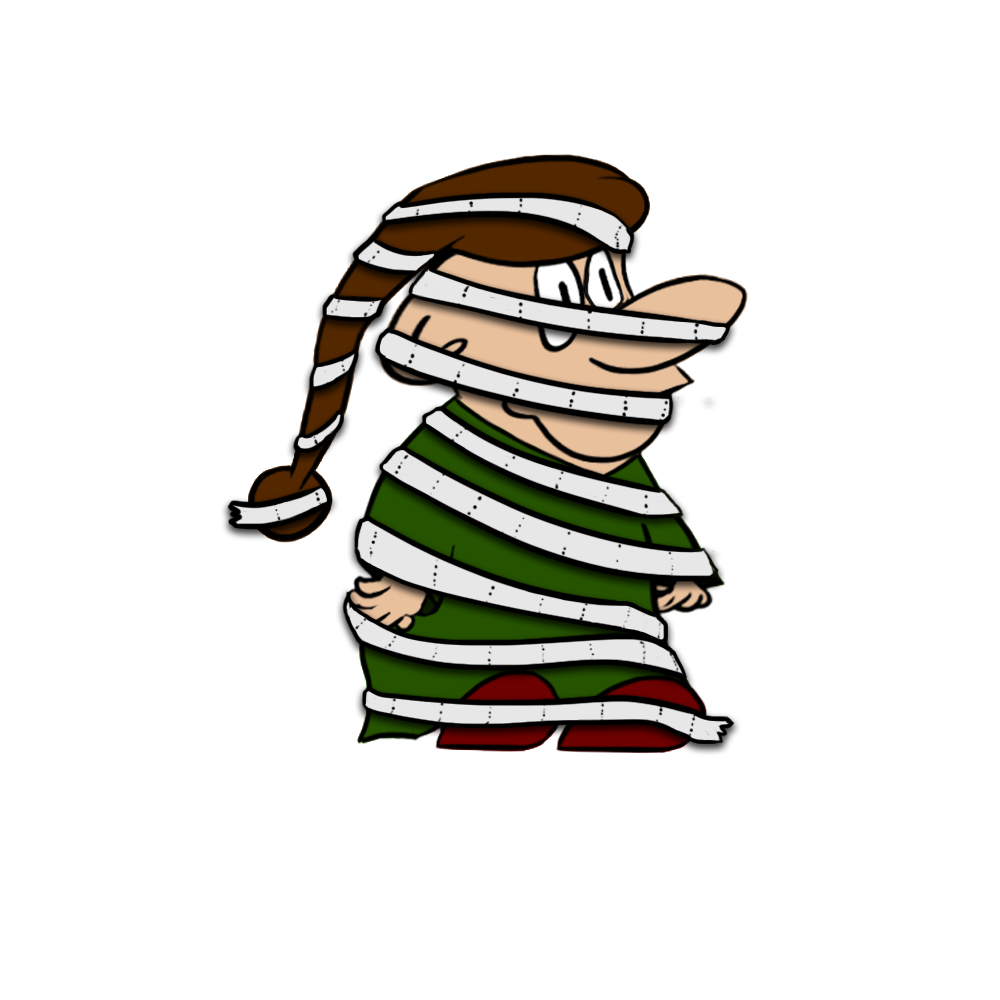
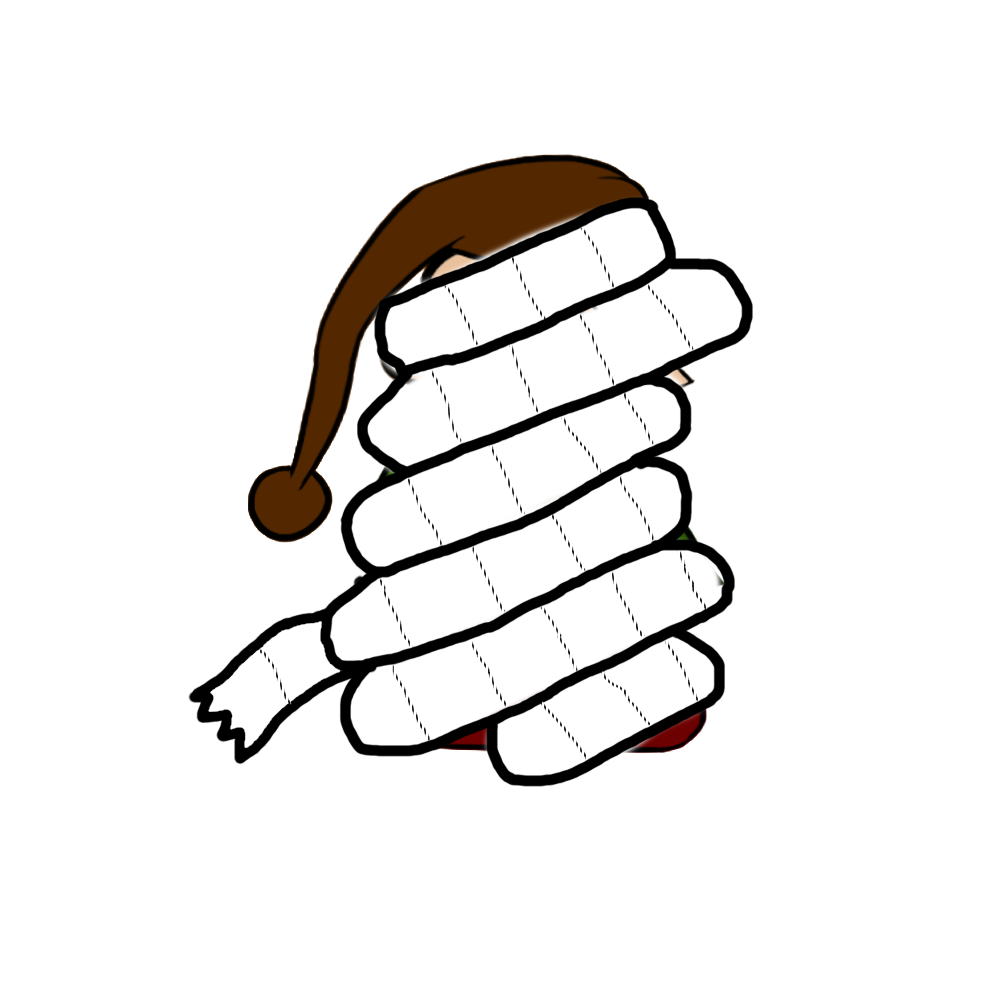
fully covered dwarf in toilet paper, resolves #125

Changed region(s): [[0.217, 0.186, 0.775, 0.806], [0.186, 0.682, 0.279, 0.775]]

diff --git a/Loading/Assets/EndScreen/Scripts/FirstPlaythroughPanel.cs b/Loading/Assets/EndScreen/Scripts/FirstPlaythroughPanel.cs
@@ -32,7 +32,7 @@ public class FirstPlaythroughPanel : MonoBehaviour, IPointerClickHandler {
         foreach (LevelEndLabel text in texts) {
             if (text.levelEnd == LevelEnder.levelEnd) {
                 textNotUnlockedAll.text = textNotUnlockedAll.text.Replace("%ENDING%", text.label);
-                break;
+                return;
             }
         }
 
